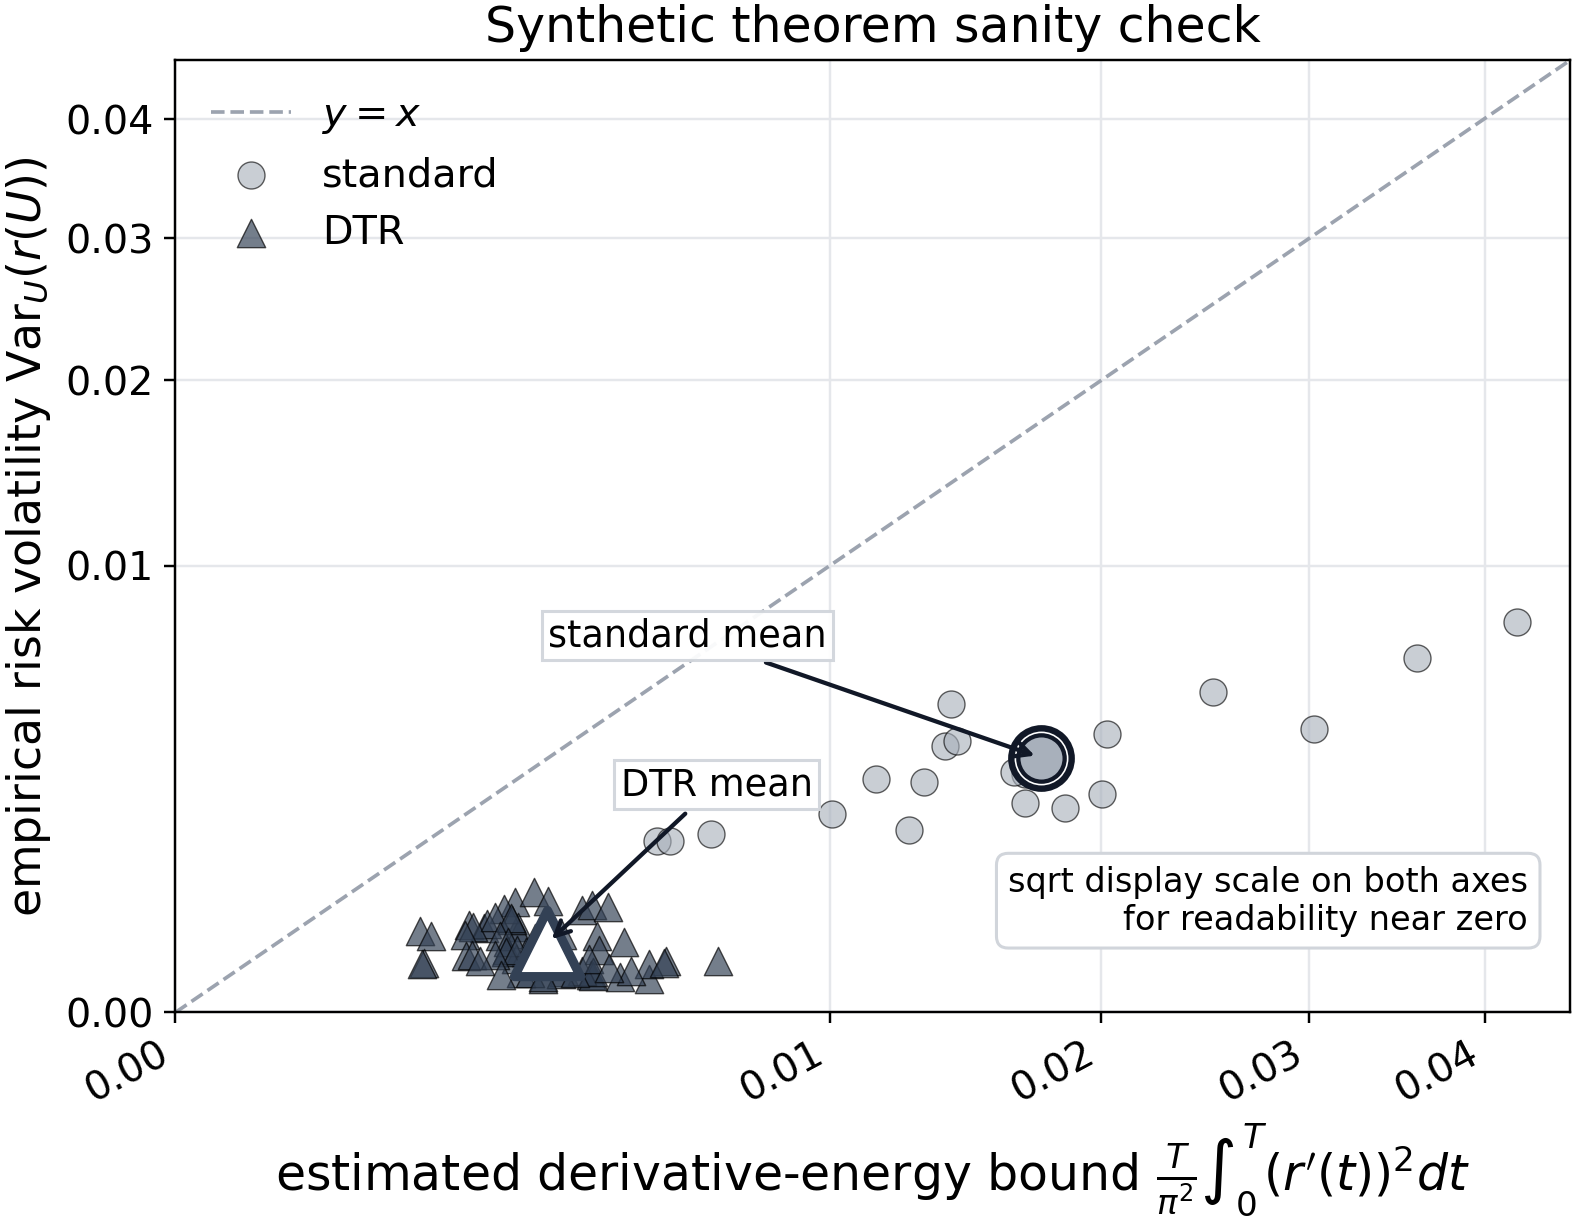
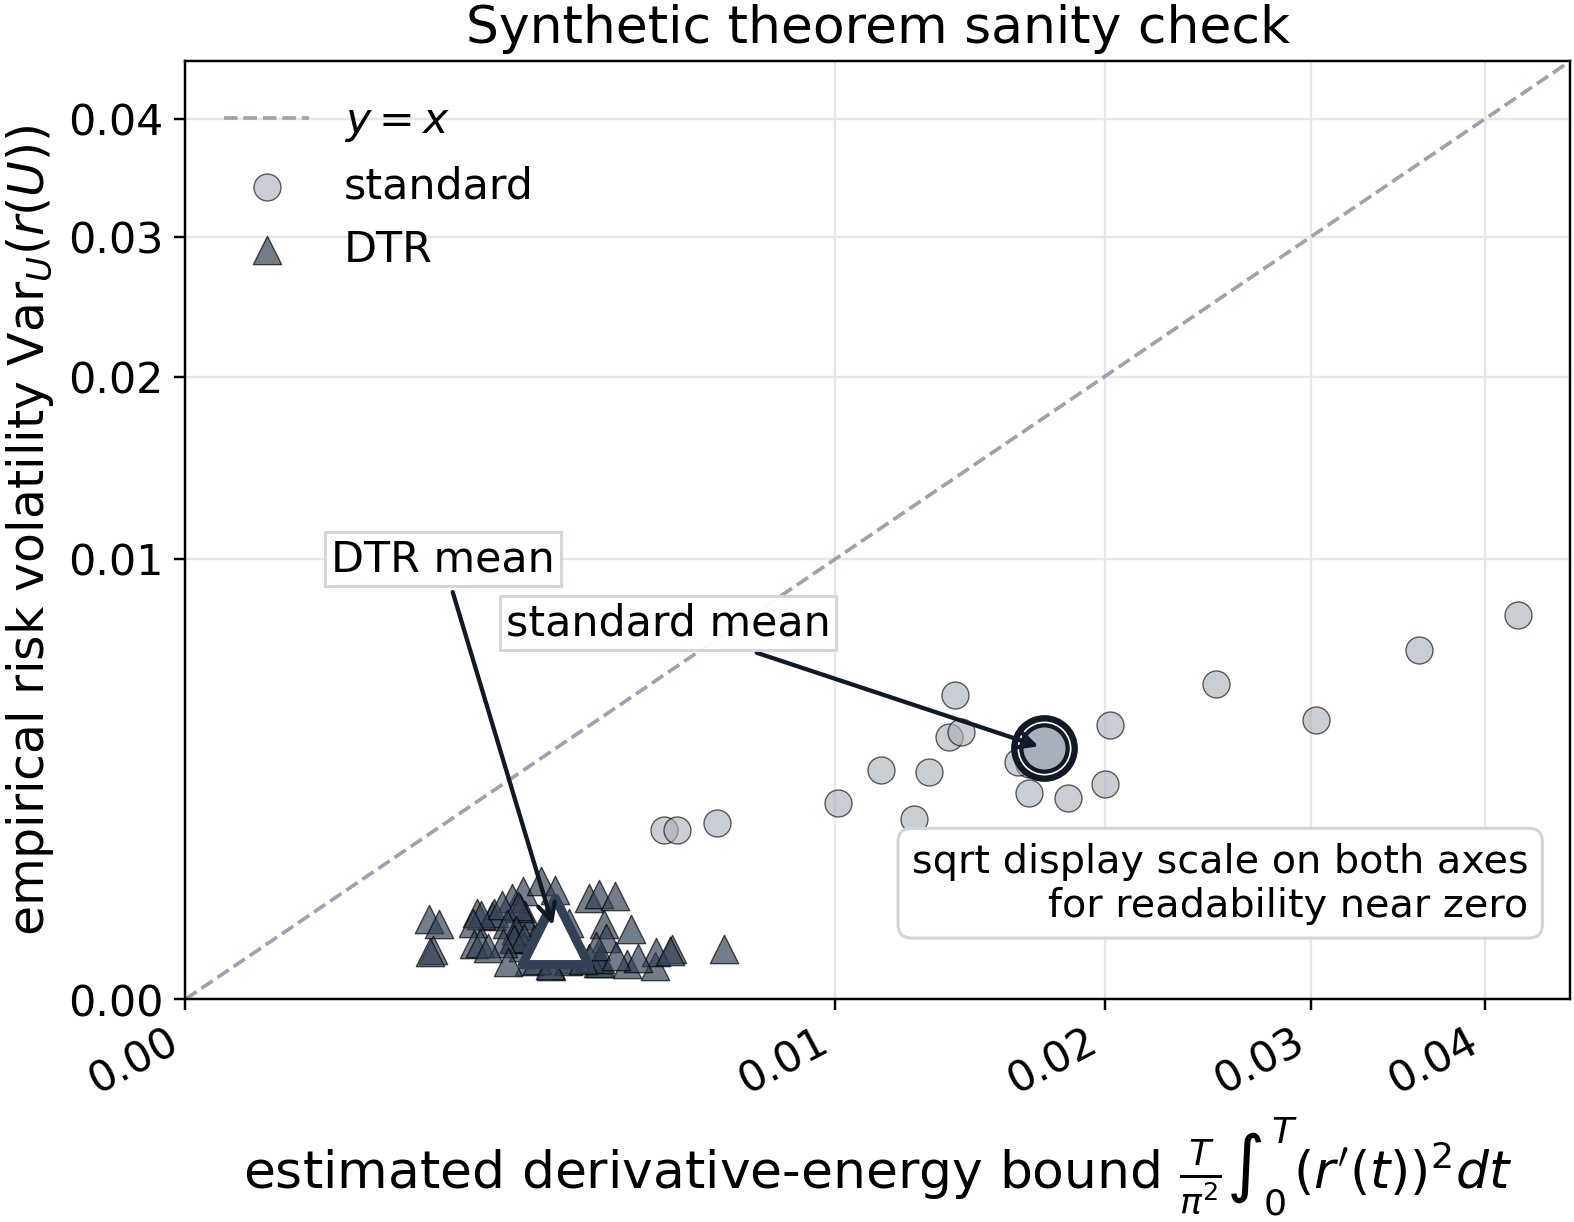
Style changes to figures and the websites.

diff --git a/index.html b/index.html
@@ -26,7 +26,7 @@
       --radius: 20px;
     }
     * { box-sizing: border-box; }
-    html { scroll-behavior: smooth; }
+    html { scroll-behavior: smooth; scroll-padding-top: 4.5rem; }
     body {
       margin: 0;
       font-family: "Manrope", sans-serif;
@@ -180,7 +180,7 @@
       border: 1px solid rgba(16,21,34,.08);
       box-shadow: inset 0 1px 0 rgba(255,255,255,.42);
       scrollbar-width: thin;
-      scrollbar-color: rgba(47,68,88,.42) rgba(255,255,255,.58);
+      scrollbar-color: rgba(47,68,88,.32) transparent;
       -webkit-overflow-scrolling: touch;
       overscroll-behavior-x: contain;
       touch-action: pan-x pinch-zoom;
@@ -198,19 +198,19 @@
       text-align: center !important;
     }
     .math::-webkit-scrollbar {
-      height: 9px;
+      height: 6px;
+      background: transparent;
     }
     .math::-webkit-scrollbar-track {
-      background: rgba(255,255,255,.58);
-      border-radius: 999px;
+      background: transparent;
     }
     .math::-webkit-scrollbar-thumb {
-      background: linear-gradient(90deg, rgba(179,107,66,.56), rgba(47,68,88,.58));
+      background: rgba(47,68,88,.28);
       border-radius: 999px;
-      border: 2px solid rgba(255,255,255,.58);
+      transition: background .2s ease;
     }
     .math::-webkit-scrollbar-thumb:hover {
-      background: linear-gradient(90deg, rgba(179,107,66,.7), rgba(47,68,88,.72));
+      background: rgba(47,68,88,.5);
     }
     .microgrid, .card-grid, .highlights, .figure-grid { display: grid; gap: 1rem; }
     .microgrid { display: flex; flex-direction: column; margin-top: .8rem; gap: .7rem; }
@@ -309,6 +309,7 @@
     @media (max-width: 760px) {
       body { font-size: 14px; }
       .wrap { width: min(calc(100% - 1rem), var(--max)); }
+      html { scroll-padding-top: 0; }
       .topbar { position: static; }
       .navline {
         min-height: auto;
@@ -361,7 +362,7 @@
         font-size: 88% !important;
       }
       .math::-webkit-scrollbar {
-        height: 7px;
+        height: 5px;
       }
       .result-list li {
         flex-direction: column;
@@ -533,10 +534,10 @@
           <article class="card">
             <h3>The payoff</h3>
             <div class="math">\[
-            \begin{multline*}
+            \begin{gather*}
             \mathcal{L}_{\mathrm{DTR}}(\theta) = \\
             \mathbb{E}\ell(f_\theta(X),Y) + \lambda \mathbb{E}\|J_f(X)V\|_F^2
-            \end{multline*}
+            \end{gather*}
             \]</div>
             <p>
               Once the drift geometry is estimated, robustness should be enforced in those directions instead of spread uniformly across the ambient space.
@@ -563,30 +564,30 @@
           <article class="card">
             <h3>Lemma 1</h3>
             <div class="math">\[
-            \begin{multline*}
+            \begin{gather*}
             \mathrm{Var}_U(r(U)) \le \\
             \frac{T}{\pi^2}\int_0^T (r'(t))^2dt.
-            \end{multline*}
+            \end{gather*}
             \]</div>
             <p>Large volatility requires large derivative energy somewhere along deployment time.</p>
           </article>
           <article class="card">
             <h3>Theorem 1</h3>
             <div class="math">\[
-            \begin{multline*}
+            \begin{gather*}
             \mathrm{Var}_U(r(U)) \le \\
             \frac{\beta^2 T}{\pi^2}\int_0^T \mathbb{E}\!\left[\|J_f(X_t)\dot X_t\|^2\right]dt.
-            \end{multline*}
+            \end{gather*}
             \]</div>
             <p>Deployment instability is driven by accumulated tangent amplification of realized motion.</p>
           </article>
           <article class="card">
             <h3>Corollary 1</h3>
             <div class="math">\[
-            \begin{multline*}
-            \dot X_t = \\
-            Va_t+\rho_t, \qquad V^\top V=I_k.
-            \end{multline*}
+            \begin{gather*}
+            \dot X_t = Va_t+\rho_t, \\
+            V^\top V = I_k.
+            \end{gather*}
             \]</div>
             <p>In low-rank regimes, the leading term is directional Jacobian energy in the drift subspace.</p>
           </article>

diff --git a/proof_verification/verification_report.html b/proof_verification/verification_report.html
@@ -25,7 +25,7 @@
       --radius: 20px;
     }
     * { box-sizing: border-box; }
-    html { scroll-behavior: smooth; }
+    html { scroll-behavior: smooth; scroll-padding-top: 4.5rem; }
     body {
       margin: 0;
       font-family: "Manrope", sans-serif;
@@ -179,7 +179,7 @@
       border: 1px solid rgba(16,21,34,.08);
       box-shadow: inset 0 1px 0 rgba(255,255,255,.42);
       scrollbar-width: thin;
-      scrollbar-color: rgba(47,68,88,.42) rgba(255,255,255,.58);
+      scrollbar-color: rgba(47,68,88,.32) transparent;
       -webkit-overflow-scrolling: touch;
       overscroll-behavior-x: contain;
       touch-action: pan-x pinch-zoom;
@@ -197,19 +197,19 @@
       text-align: center !important;
     }
     .math::-webkit-scrollbar {
-      height: 9px;
+      height: 6px;
+      background: transparent;
     }
     .math::-webkit-scrollbar-track {
-      background: rgba(255,255,255,.58);
-      border-radius: 999px;
+      background: transparent;
     }
     .math::-webkit-scrollbar-thumb {
-      background: linear-gradient(90deg, rgba(179,107,66,.56), rgba(47,68,88,.58));
+      background: rgba(47,68,88,.28);
       border-radius: 999px;
-      border: 2px solid rgba(255,255,255,.58);
+      transition: background .2s ease;
     }
     .math::-webkit-scrollbar-thumb:hover {
-      background: linear-gradient(90deg, rgba(179,107,66,.7), rgba(47,68,88,.72));
+      background: rgba(47,68,88,.5);
     }
     .microgrid, .card-grid, .highlights, .figure-grid { display: grid; gap: 1rem; }
     .microgrid { display: flex; flex-direction: column; margin-top: .8rem; gap: .7rem; }
@@ -308,6 +308,7 @@
     @media (max-width: 760px) {
       body { font-size: 14px; }
       .wrap { width: min(calc(100% - 1rem), var(--max)); }
+      html { scroll-padding-top: 0; }
       .topbar { position: static; }
       .navline {
         min-height: auto;
@@ -360,7 +361,7 @@
         font-size: 88% !important;
       }
       .math::-webkit-scrollbar {
-        height: 7px;
+        height: 5px;
       }
       .result-list li {
         flex-direction: column;

diff --git a/scripts/plot_figure_2_synthetic_theorem.py b/scripts/plot_figure_2_synthetic_theorem.py
@@ -25,12 +25,12 @@ def main() -> None:
 
     plt.rcParams.update(
         {
-            "font.size": 14,
-            "axes.titlesize": 14,
-            "axes.labelsize": 15,
-            "xtick.labelsize": 13,
-            "ytick.labelsize": 13,
-            "legend.fontsize": 13,
+            "font.size": 15,
+            "axes.titlesize": 15,
+            "axes.labelsize": 16,
+            "xtick.labelsize": 14,
+            "ytick.labelsize": 14,
+            "legend.fontsize": 14,
         }
     )
     fig, ax = plt.subplots(figsize=(7.2, 5.6), constrained_layout=True)
@@ -66,12 +66,12 @@ def main() -> None:
     ax.set_ylim(0.0, upper)
     ax.set_xlabel(
         r"estimated derivative-energy bound $\frac{T}{\pi^2}\int_0^T (r'(t))^2 dt$",
-        fontsize=16,
+        fontsize=17,
     )
     ax.set_ylabel(r"empirical risk volatility $\mathrm{Var}_U(r(U))$")
     ax.grid(color="#e5e7eb", linewidth=0.8)
     ax.set_axisbelow(True)
-    ax.set_title("Synthetic theorem sanity check", fontsize=16)
+    ax.set_title("Synthetic theorem sanity check", fontsize=17)
     ax.legend(frameon=False, loc="upper left")
     for label in ax.get_xticklabels():
         label.set_rotation(28)
@@ -84,7 +84,7 @@ def main() -> None:
         transform=ax.transAxes,
         ha="right",
         va="bottom",
-        fontsize=11,
+        fontsize=13,
         color=label_color,
         bbox={
             "facecolor": "white",
@@ -107,7 +107,7 @@ def main() -> None:
         xy=standard_center,
         xytext=(-70, 34),
         textcoords="offset points",
-        fontsize=12,
+        fontsize=14,
         color=label_color,
         ha="right",
         va="bottom",
@@ -118,11 +118,11 @@ def main() -> None:
     ax.annotate(
         "DTR mean",
         xy=dtr_center,
-        xytext=(24, 46),
+        xytext=(0, 115),
         textcoords="offset points",
-        fontsize=12,
+        fontsize=14,
         color=label_color,
-        ha="left",
+        ha="right",
         va="bottom",
         bbox={"facecolor": "white", "edgecolor": "#d1d5db", "alpha": 0.94, "pad": 2.0},
         arrowprops={"arrowstyle": "->", "color": mean_edge, "linewidth": 1.4},
